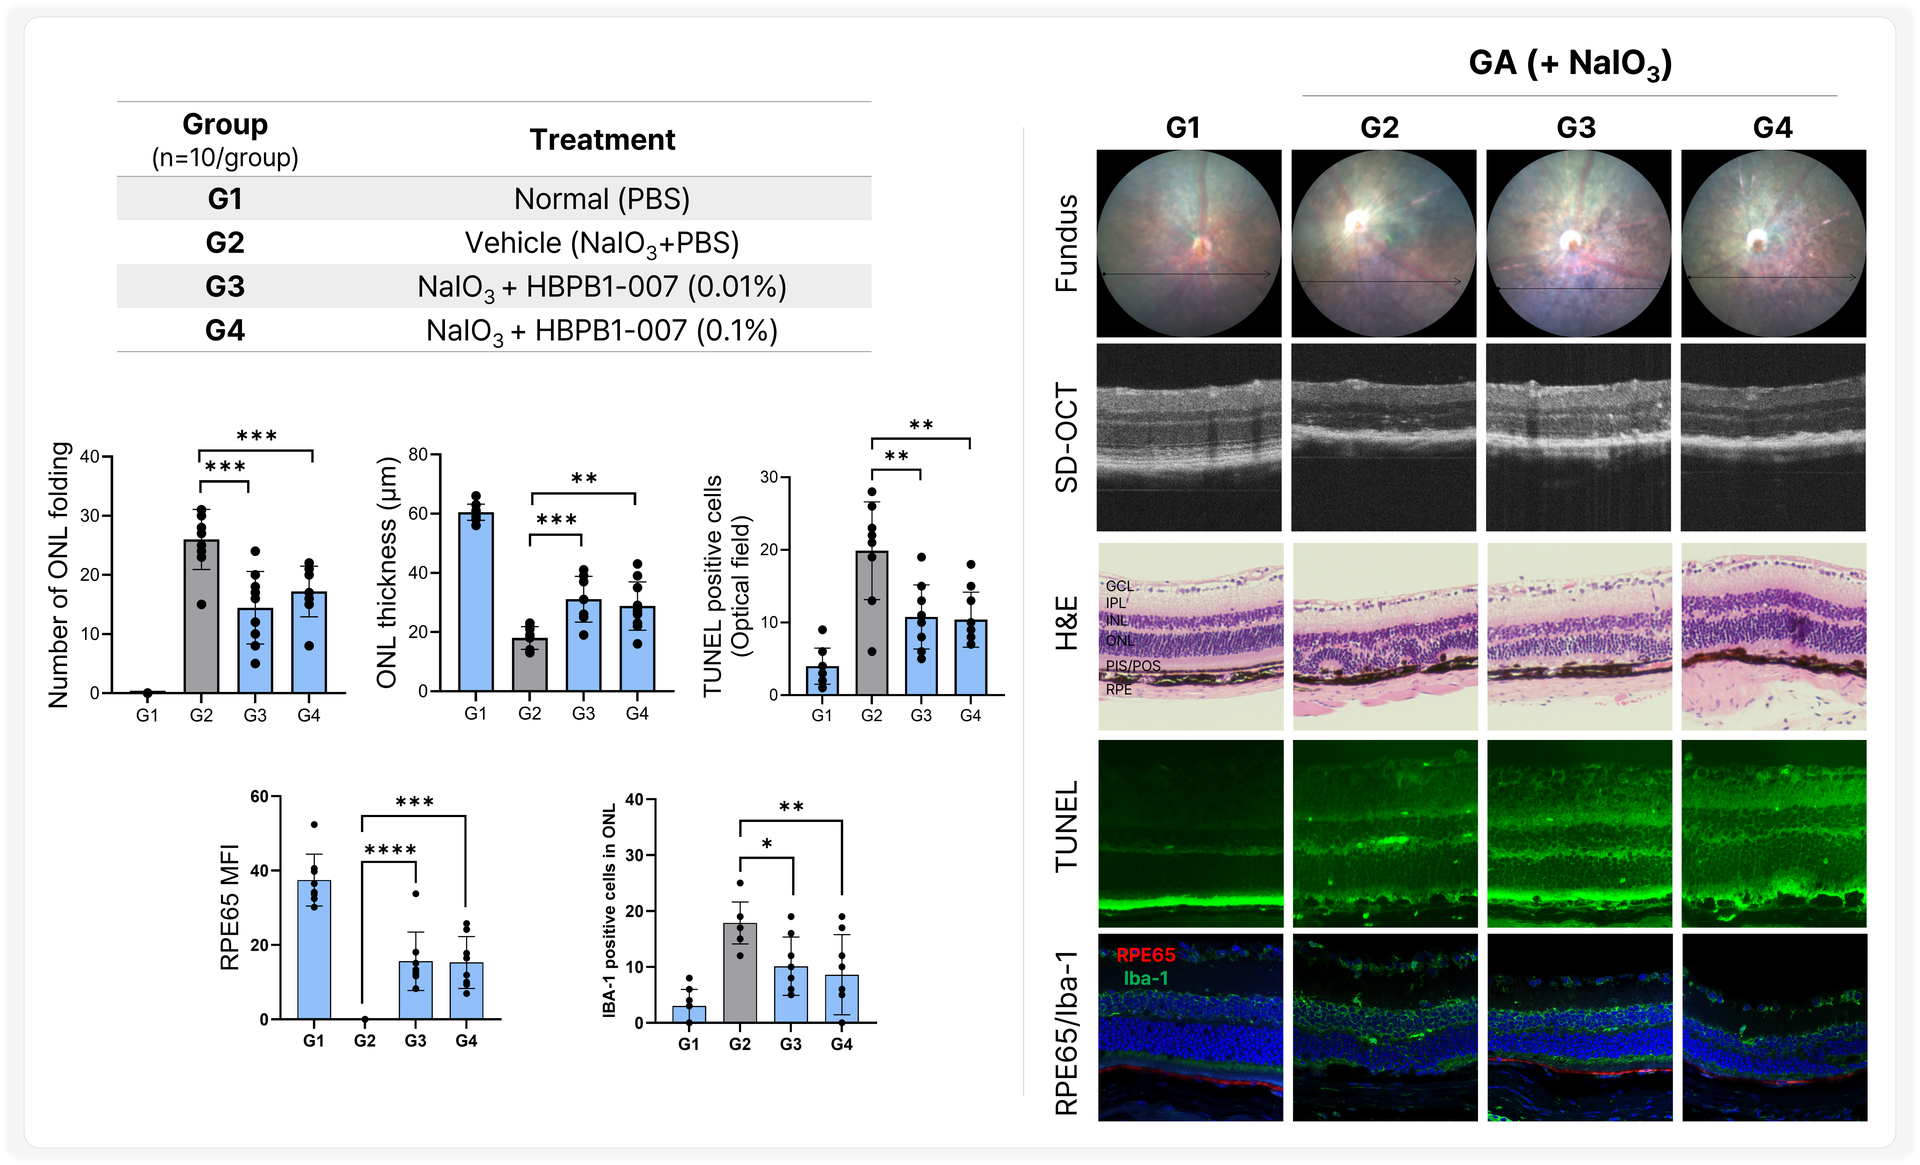
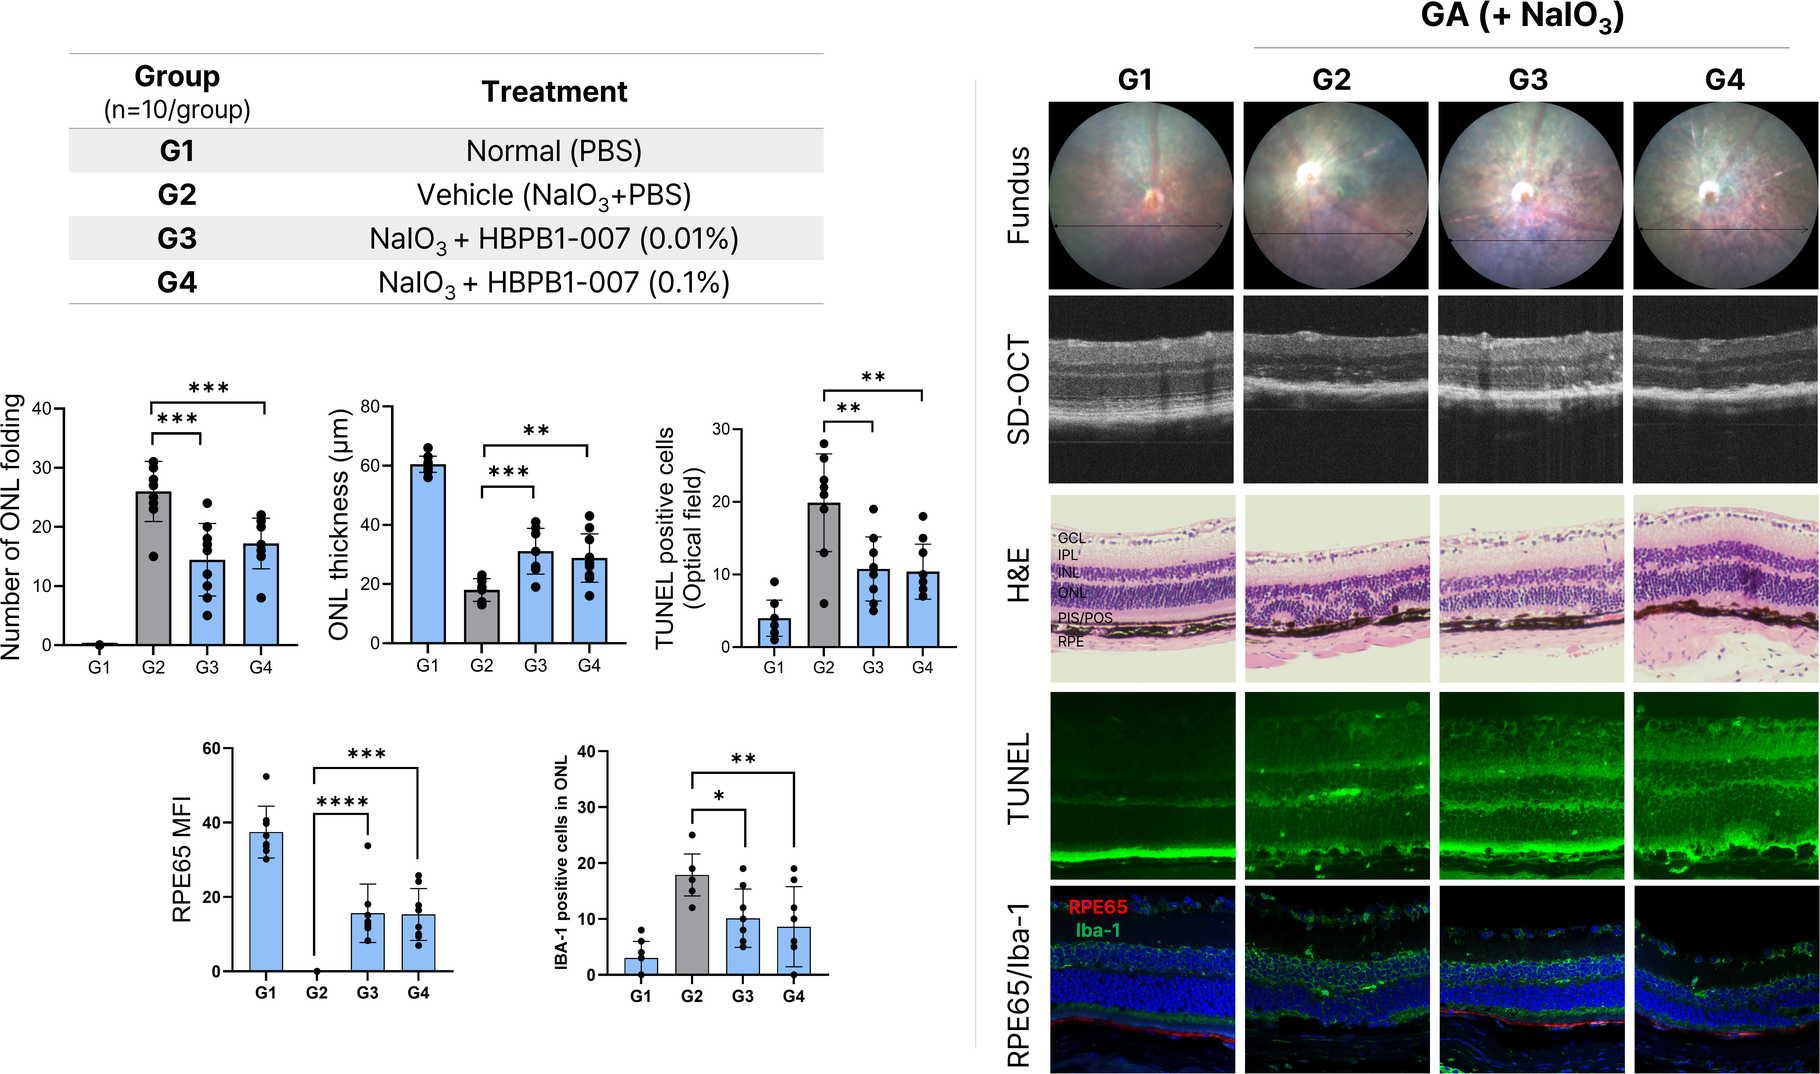
Strip the baked-in borders from the three data figures
The figures carried three different borders inside the PNGs: efficacy had a soft
shadow plus an #E9E9E9 line, ocular-delivery a 1px #A6A6A6 line, and iop-safety
none at all. Stacked inside .data-figure's own 1px card that read as three
different treatments, with iop-safety looking unframed next to the other two.

Rather than match three styles, figtrim.py strips what is baked in and lets the
container supply the one border. It detects the band on each side, tolerating the
one-pixel white gap that sits between shadow and line in efficacy.png (stopping at
that gap left the line behind on the first attempt), erases the rounded-corner arcs
the straight crop leaves behind, then crops to content.

make_onepager.py uses the same module, so the one-pager and the web page now agree.

diff --git a/README.md b/README.md
@@ -30,6 +30,19 @@ on 2026-10-07 at the PI's instruction so the page reads as a G-KIC-only asset. T
 this — `build_landing.py` prints the count of surviving `BIO-Europe` / `BIO USA` / `San Diego` /
 `Köln` strings and flags any as 🔴. Do not reintroduce them.
 
+## Figure borders
+
+The three data figures arrived with **three different borders baked into the PNGs** — `efficacy.png`
+had a soft shadow plus an `#E9E9E9` line, `ocular-delivery.png` a 1 px `#A6A6A6` line, and
+`iop-safety.png` none at all. Since `.data-figure` already supplies a uniform
+`1px solid var(--border)` card, the baked borders are **stripped** instead of matched:
+`../gkic-partnering-2026/figtrim.py` detects the border band on each side, removes the leftover
+rounded-corner arcs, and crops to content. `build_landing.py` runs it over the copied images, and
+`make_onepager.py` uses the same module for the PDF — so the web page and the one-pager agree.
+
+Re-running `build_landing.py` re-copies the untrimmed originals from the sibling page and trims them
+again, so the result is reproducible. **Do not hand-edit the PNGs in `images/`.**
+
 ## Event
 
 - **Programme:** G-KIC-NST Partnering Day 2026 · KIST × NST Global Partnering
